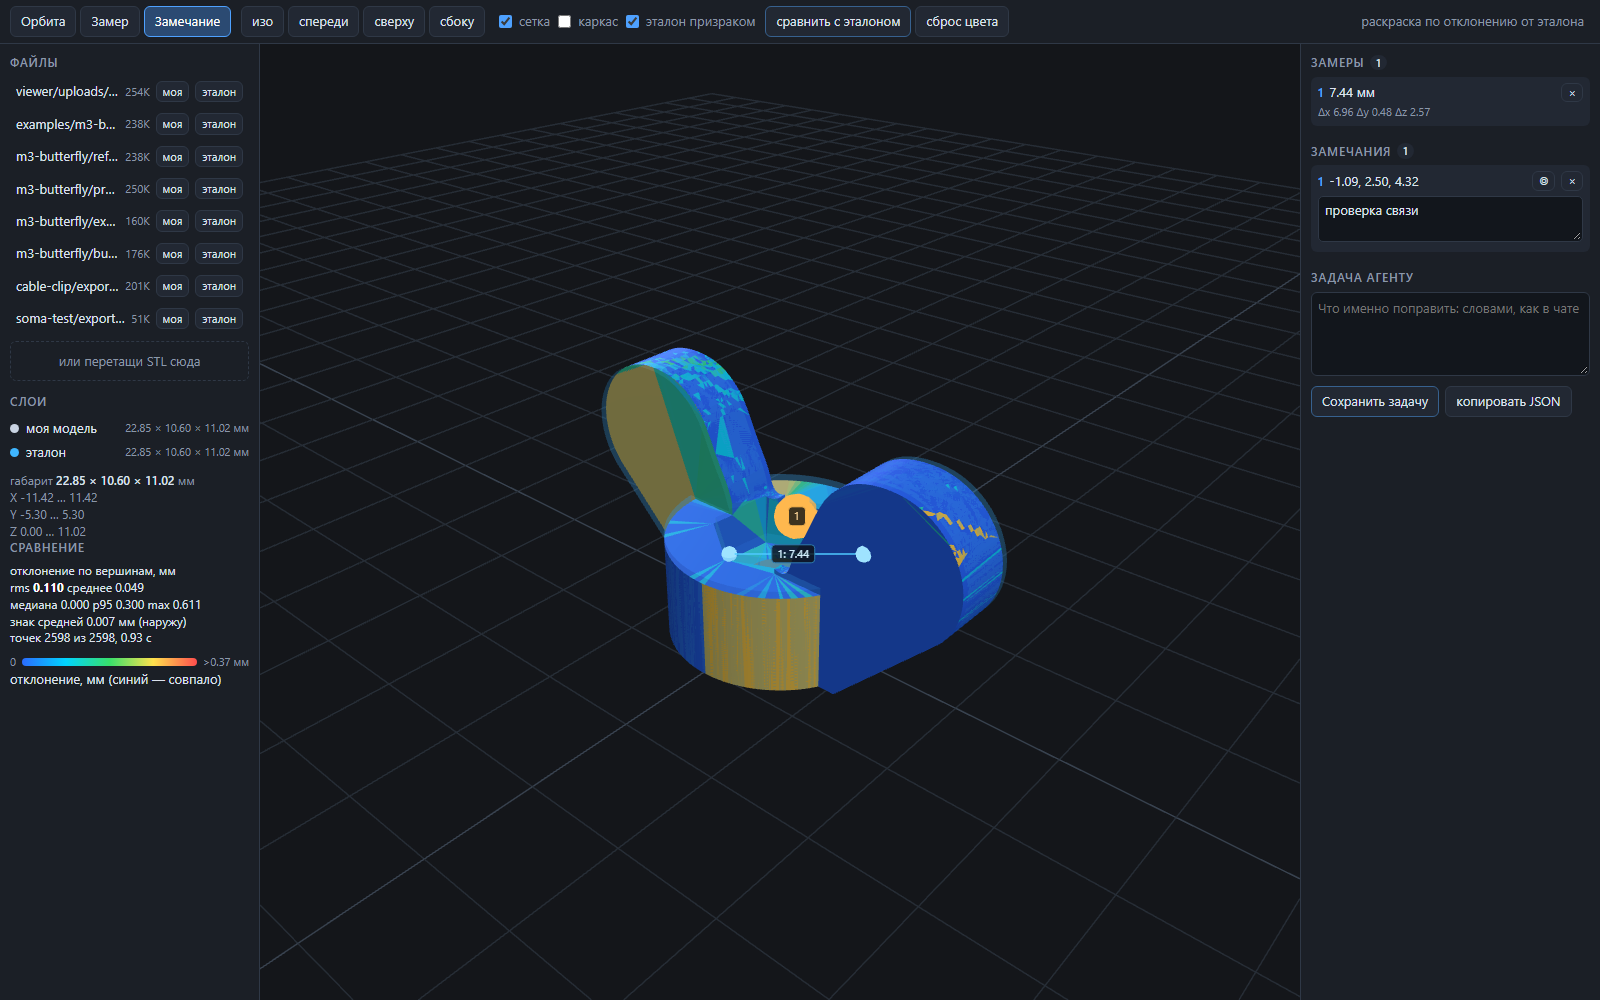
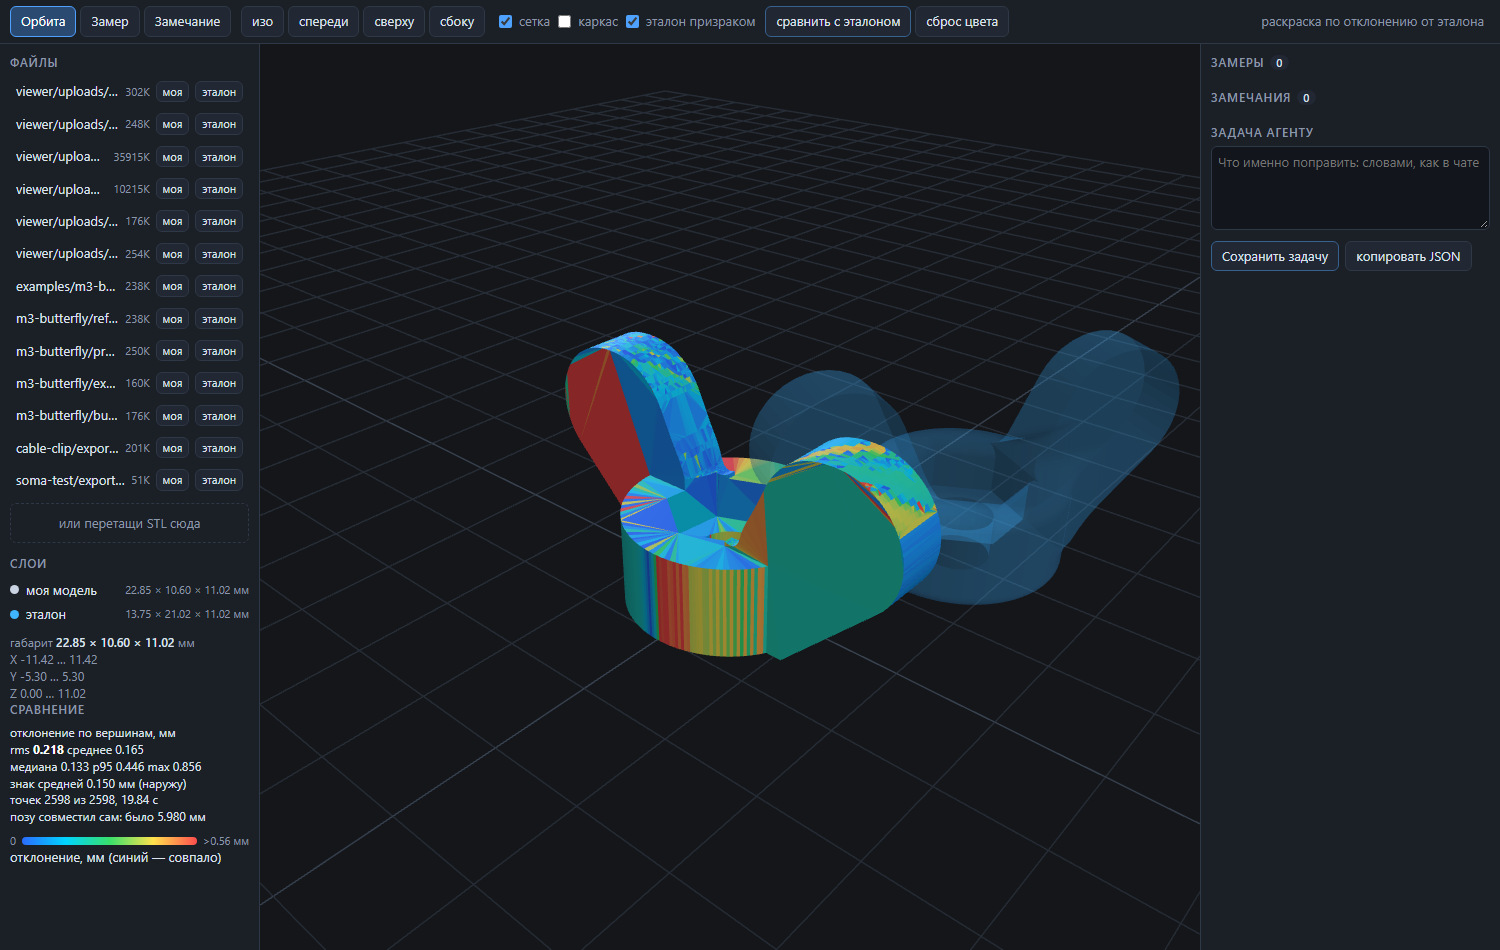
сравнение совмещает позу само: эталон из чужой библиотеки можно брать как есть
- /api/compare зовёт rigid_align из scripts/fit_params.py перед расчётом расстояний
  (без этого rms меряет поворот: 5.98 мм на барашке вместо 0.22)
- в ответе поле align {done, rms_before, error}, в панели строка «позу совместил сам»
- на сетках больше 400k вершин совмещение пропускается, чтобы не ждать минуту
- скриншот README переснят с раскраской и подписью про совмещение

diff --git a/web/app.js b/web/app.js
@@ -399,7 +399,11 @@ async function compareWithRef() {
   document.getElementById('compare-stats').innerHTML =
     `отклонение по вершинам, мм\nrms <b>${fmt(st.rms, 3)}</b>   среднее ${fmt(st.mean, 3)}\nмедиана ${fmt(st.median, 3)}   p95 ${fmt(st.p95, 3)}   max ${fmt(st.max, 3)}\n` +
     `знак средней ${fmt(st.signed_mean, 3)} мм (${st.signed_mean > 0 ? 'наружу' : 'внутрь'})\n` +
-    `точек ${data.n} из ${data.mine_vertices}${data.subsampled ? ' (прорежено)' : ''}, ${data.seconds} с`;
+    `точек ${data.n} из ${data.mine_vertices}${data.subsampled ? ' (прорежено)' : ''}, ${data.seconds} с` +
+    (data.align && data.align.done
+      ? `<div class="sub">позу совместил сам: было ${fmt(data.align.rms_before, 3)} мм</div>`
+      : data.align && data.align.error
+        ? `<div class="sub">без совмещения: ${data.align.error}</div>` : '');
   const lm = document.getElementById('legend-max');
   lm.textContent = '>' + fmt(state.scaleMax, 2) + ' мм';
   lm.title = `шкала 0…${fmt(state.scaleMax, 2)} мм = p95×1.25; max по сетке ${fmt(st.max, 3)} мм — он и уходит в красный`;

diff --git a/viewer/server.py b/viewer/server.py
@@ -90,8 +90,15 @@ def list_meshes() -> list[dict]:
     return out
 
 
-def compare(mine_path: Path, ref_path: Path, max_points: int = 30000) -> dict:
-    """Знаковое расстояние вершин моей модели до поверхности эталона."""
+def compare(mine_path: Path, ref_path: Path, max_points: int = 30000, align: bool = True) -> dict:
+    """Знаковое расстояние вершин моей модели до поверхности эталона.
+
+    Поза совмещается автоматически (`rigid_align` из `scripts/fit_params.py`): эталон из
+    чужой библиотеки почти всегда лежит в других координатах, и без совмещения
+    «отклонение» получается 5.98 мм там, где формы отличаются на 0.1 — это не форма,
+    а поворот. Если поза уже верная, матрица близка к единичной и цифры не меняются.
+    """
+    import sys
     import numpy as np
     import trimesh
 
@@ -102,12 +109,30 @@ def compare(mine_path: Path, ref_path: Path, max_points: int = 30000) -> dict:
     if isinstance(ref, trimesh.Scene):
         ref = trimesh.util.concatenate(tuple(ref.dump()))
 
-    pts = np.asarray(mine.vertices, dtype=float)
-    if len(pts) > max_points:
-        idx = np.linspace(0, len(pts) - 1, max_points).astype(int)
-        pts = pts[idx]
+    verts = np.asarray(mine.vertices, dtype=float)
+    if len(verts) > max_points:
+        idx = np.linspace(0, len(verts) - 1, max_points).astype(int)
+        pts = verts[idx]
+    else:
+        pts = verts
 
     t0 = time.time()
+    align_info = {"done": False}
+    if align and len(mine.vertices) <= 400000:
+        scripts = str(REPO / "scripts")
+        if scripts not in sys.path:
+            sys.path.insert(0, scripts)
+        try:
+            import fit_params as F
+
+            before = float(np.sqrt(np.mean(
+                np.abs(trimesh.proximity.ProximityQuery(ref).on_surface(pts)[1]) ** 2)))
+            M = F.rigid_align(mine, ref)                      # src -> dst, без масштаба
+            pts = pts @ M[:3, :3].T + M[:3, 3]
+            align_info = {"done": True, "rms_before": round(before, 3)}
+        except Exception as e:                             # noqa: BLE001 — сравнение важнее позы
+            align_info = {"done": False, "error": "%s: %s" % (type(e).__name__, e)}
+
     closest, dist, tri = trimesh.proximity.ProximityQuery(ref).on_surface(pts)
     normals = ref.face_normals[np.asarray(tri, dtype=int)]
     sign = np.sign(np.einsum("ij,ij->i", pts - closest, normals))
@@ -128,6 +153,7 @@ def compare(mine_path: Path, ref_path: Path, max_points: int = 30000) -> dict:
         "distances": base64.b64encode(signed.tobytes()).decode("ascii"),
         "mine_vertices": int(len(mine.vertices)),
         "subsampled": bool(len(mine.vertices) > max_points),
+        "align": align_info,
     }
 
 

diff --git a/README.md b/README.md
@@ -87,7 +87,7 @@ python viewer/server.py --root C:/Users/boot8/cad    # показать все S
 | режимы | `1` орбита, `2` замер, `3` замечание |
 | замер | клик по точке, клик по второй — расстояние и Δx/Δy/Δz в правой панели |
 | замечание | клик по проблемному месту + текст, у каждого пина свой ракурс (кнопка ◎) |
-| сравнение | «сравнить с эталоном» — раскраска по расстоянию до эталона (синий = совпало, красный = максимум) |
+| сравнение | «сравнить с эталоном» — раскраска по расстоянию до эталона (синий = совпало, красный = максимум); позу совмещает сам через `rigid_align`, так что эталон из чужой библиотеки можно брать как есть |
 | виды | изо / спереди / сверху / сбоку, галочки сетки, каркаса и полупрозрачного эталона |
 
 Кнопка «сохранить задачу» пишет JSON в `tasks/task-<дата>.json`: обе сетки, габариты, все
@@ -99,6 +99,11 @@ python viewer/server.py --root C:/Users/boot8/cad    # показать все S
 плюс `&compare=1` (сразу раскрасить) и `&mode=measure|pin`. `&selftest=1` прогоняет
 самопроверку интерфейса — кликает по сцене, мерит, ставит пин, сравнивает и пишет итог в
 заголовок окна.
+
+Сравнение без совмещения врёт убедительно: эталон из чужой библиотеки стоит в других
+координатах, и вместо отклонения формы выходит расстояние между позами (на барашке —
+5.98 мм там, где форма расходится на 0.22). Поэтому `/api/compare` сначала зовёт
+`rigid_align` из `scripts/fit_params.py`, а в цифрах пишет, сколько было до совмещения.
 
 Работает офлайн: `three@0.169.0` лежит в `web/vendor/`, сборщик и npm не нужны. В списке
 только `.stl`; другие форматы откроются, если добавить лоадер в `web/app.js`.
